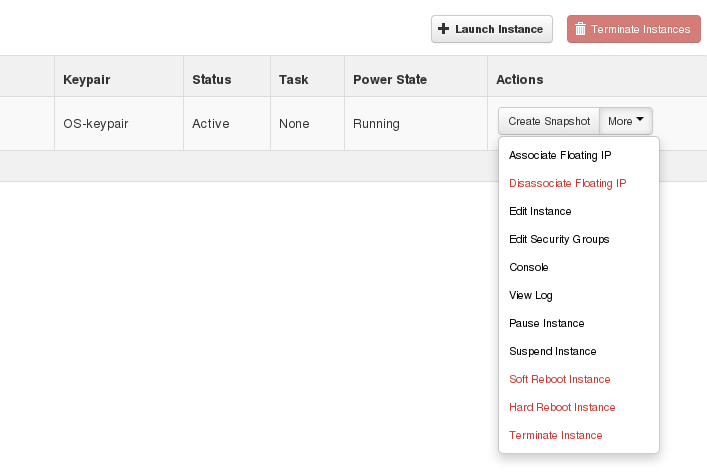
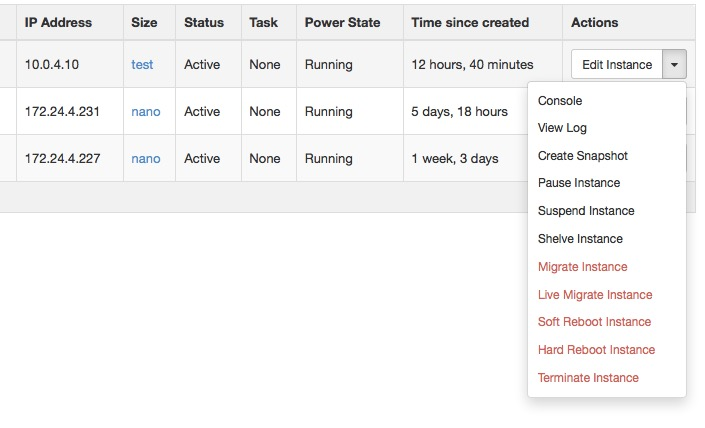
Update change_instance_state.png in user admin guide
The screenshot for 'Control the state of an instance'
in 'Manage instances in Admin User Guide' is wrong, the
screenshot is under 'Project' tab for a normal end user not
under 'Admin' tab for an administrative user.

Implements: blueprint user-guides-reorganised

diff --git a/doc/user-guide-admin/source/dashboard_manage_instances.rst b/doc/user-guide-admin/source/dashboard_manage_instances.rst
@@ -47,7 +47,7 @@ Control the state of an instance
 
    Depending on the current state of the instance, you can choose to
    pause, un-pause, suspend, resume, soft or hard reboot, or terminate
-   an instance (items in red are disabled).
+   an instance (items in red are dangerous).
 
 .. figure:: figures/change_instance_state.png
 
